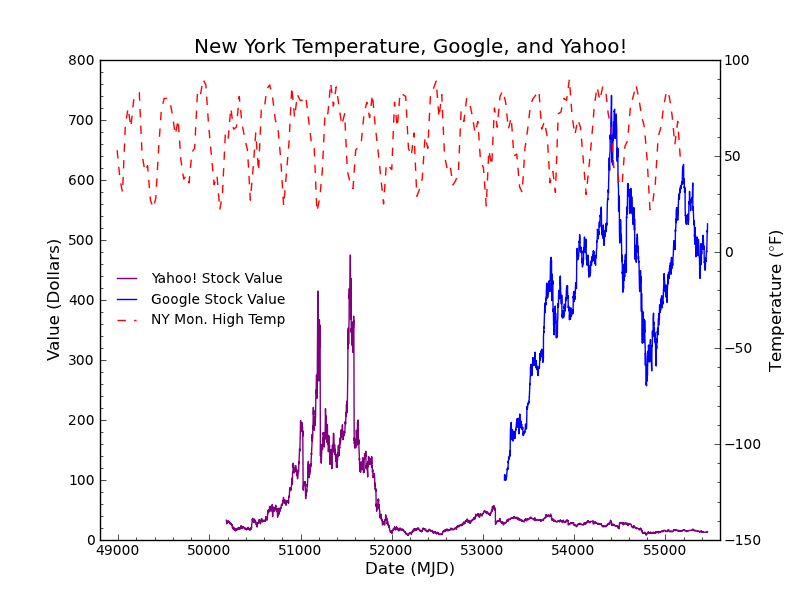
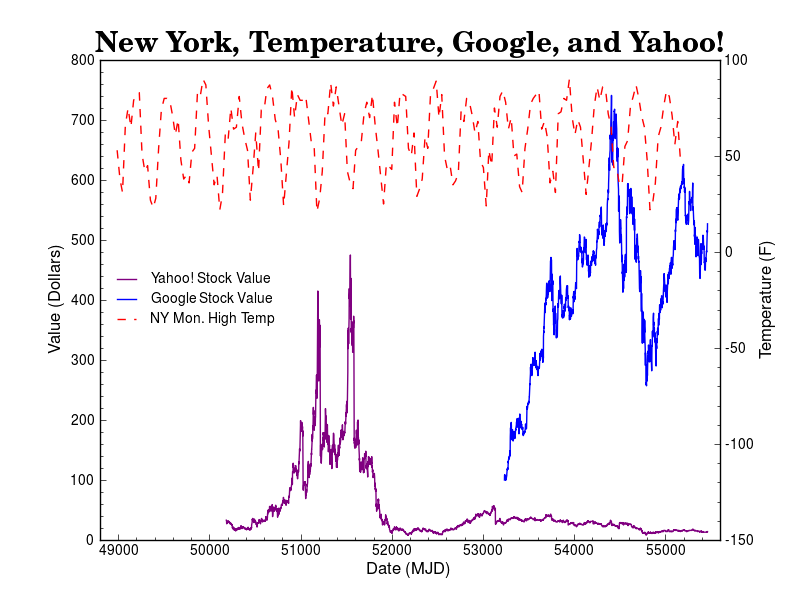
Stocks v2: Bold Title

diff --git a/plotData.py b/plotData.py
@@ -1,9 +1,12 @@
 #/usr/bin/env python
 import numpy as np
 import matplotlib.pyplot as plt
+from matplotlib import rc
 '''
     plotData generates a plot using the provided data files:
     ny_temps.txt, yahoo_data.txt, google_data.txt
+    
+    An image of the plot generated can be found at NY_Google_Yahoo.png
 '''
 
 # Read in data from text file
@@ -20,7 +23,9 @@ ln1 = ax1.plot(goog['date'],goog['val'], label='Google Stock Value')
 ln2 = ax2.plot(ny['date'],ny['val'], '--', c='r',label = 'NY Mon. High Temp')
 ln3 = ax1.plot(yahoo['date'],yahoo['val'], c='purple',label='Yahoo! Stock Value')
 
-plt.title('New York Temperature, Google, and Yahoo!')
+# usetex demo: http://matplotlib.org/examples/pylab_examples/usetex_demo.html
+rc('text', usetex = True)
+plt.title(r'\bf{New York, Temperature, Google, and Yahoo!}',fontsize=20)
 
 lns = ln3+ln1+ln2
 labs = [l.get_label() for l in lns]
@@ -41,31 +46,5 @@ ax2.tick_params(labelsize=10)
 ax2.autoscale(axis='x',tight=True)
 ax2.set_xlim(48800,55600)
 ax2.xaxis.tick_bottom()
-comm = '''
-# Generate time
-t = [x * 0.5 for x in range(0, len(temps['reference']))]
 
-# Generate Coefficients using Least Squares
-A = np.array([temps['reference'], np.ones(len(temps['reference']))])
-coef = np.linalg.lstsq(A.T,temps['measured'])[0]
-range = np.linspace(min(temps['reference']), max(temps['reference']))
-
-
-
-# Plot first subplot
-ax1.plot(temps['reference'],temps['measured'],'x',c='b')
-fit = ax1.plot(range,coef[1] + coef[0]*range)
-plt.setp(fit,linewidth=2,c='g')
-ax1.set_xlabel('T$_{thermocouple}$')
-ax1.set_ylabel('T$_{thermistor}$')
-
-# Plot second subplot
-ax2.plot(t,temps['reference'],label='T$_{thermocouple}$')
-ax2.plot(t,temps['measured'],label='T$_{thermistor}$')
-ax2.legend(loc='best')
-ax2.set_xlabel('Time (s)')
-ax2.set_ylabel('T (C)')
-
-# Show the plot
-    '''
 plt.show()
